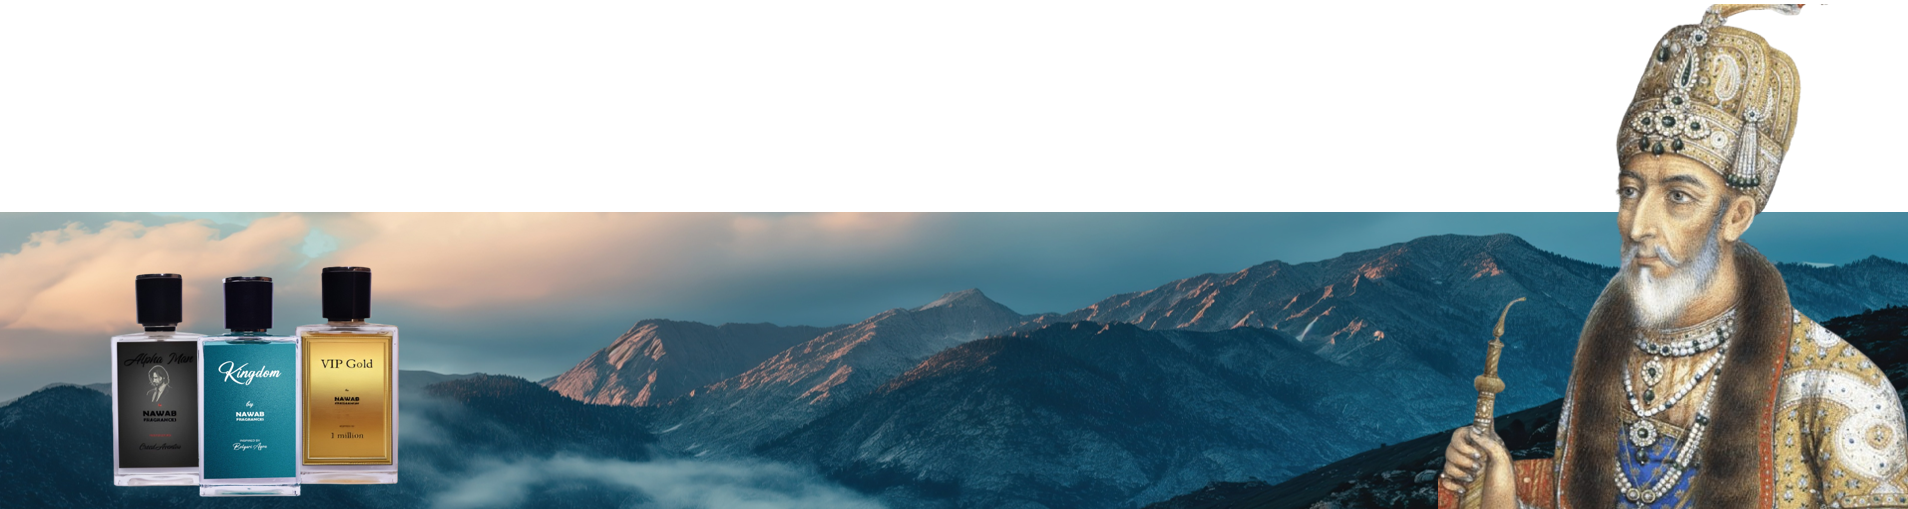
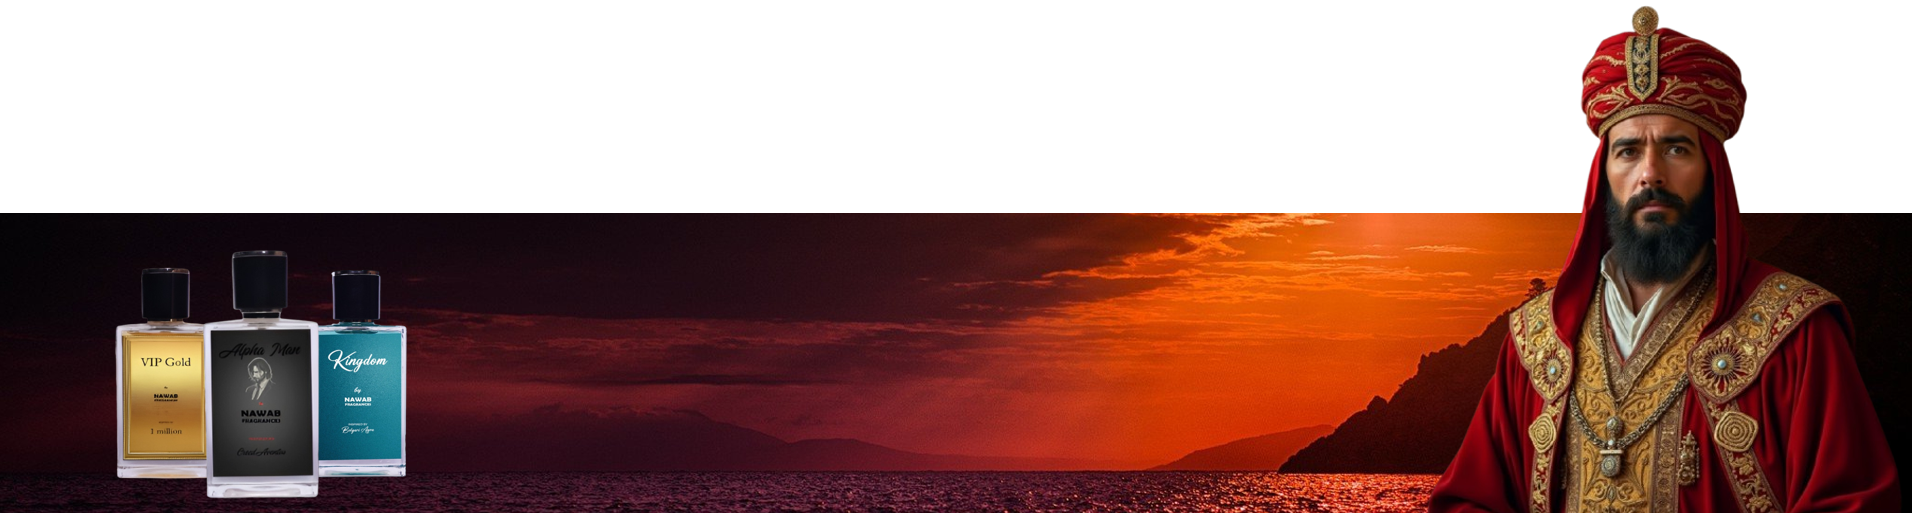
add slider in index page

diff --git a/index.html b/index.html
@@ -99,12 +99,34 @@
 
     <main>
         <!-- Hero Section -->
-        <section class="hero-section">
+        <!-- <section class="hero-section">
             <div class="container-fluid">
             </div>
-        </section>
+        </section> -->
 
-
+<section class="hero-section">
+<div id="carouselExampleFade" class="carousel slide carousel-fade hero-section">
+  <div class="carousel-inner">
+    <div class="carousel-item active">
+      <img src="assets/NEW.png" class="d-block w-100" alt="...">
+    </div>
+    <div class="carousel-item">
+      <img src="assets/NEW1.png" class="d-block w-100" alt="...">
+    </div>
+    <div class="carousel-item">
+      <img src="assets/NEW2.png" class="d-block w-100" alt="...">
+    </div>
+  </div>
+  <button class="carousel-control-prev" type="button" data-bs-target="#carouselExampleFade" data-bs-slide="prev">
+    <span class="carousel-control-prev-icon" aria-hidden="true"></span>
+    <span class="visually-hidden">Previous</span>
+  </button>
+  <button class="carousel-control-next" type="button" data-bs-target="#carouselExampleFade" data-bs-slide="next">
+    <span class="carousel-control-next-icon" aria-hidden="true"></span>
+    <span class="visually-hidden">Next</span>
+  </button>
+</div>
+</section>
 
         <!-- Featured Collection -->
         <section class="featured-collection py-5" id="featured">

diff --git a/style.css b/style.css
@@ -431,13 +431,16 @@ footer .copyright-text {
     text-decoration: underline;
 }
 .hero-section {
-    min-height: calc(75vh - 90px);
-    /* background-color: #faf8f300; */
-    position: relative;
-    overflow: hidden;
-    background-image: url('assets/NEW.png'); /* Replace with your GIF path */
-    background-size: cover;
-    background-position:bottom;
+    min-height: 65vh;
+    padding: 0px;
+    margin-bottom: 30px;
+}
+@media (min-width: 768px){
+    .hero-section img{
+        height: 70vh;
+        object-fit: cover;
+        object-position: bottom;
+    }
 }
 .hero-section h1 {
     font-size: 4.5rem; /* Larger for impact */
@@ -1636,7 +1639,7 @@ main > div > img {
     .hero-section .btn { padding: 12px 25px; font-size: 0.9rem; }
 
     .hero-section , .about-hero {
-        min-height: calc(40vh - 90px);
+        min-height: calc(28vh - 90px);
         width: 100vw!important;
     }
 
